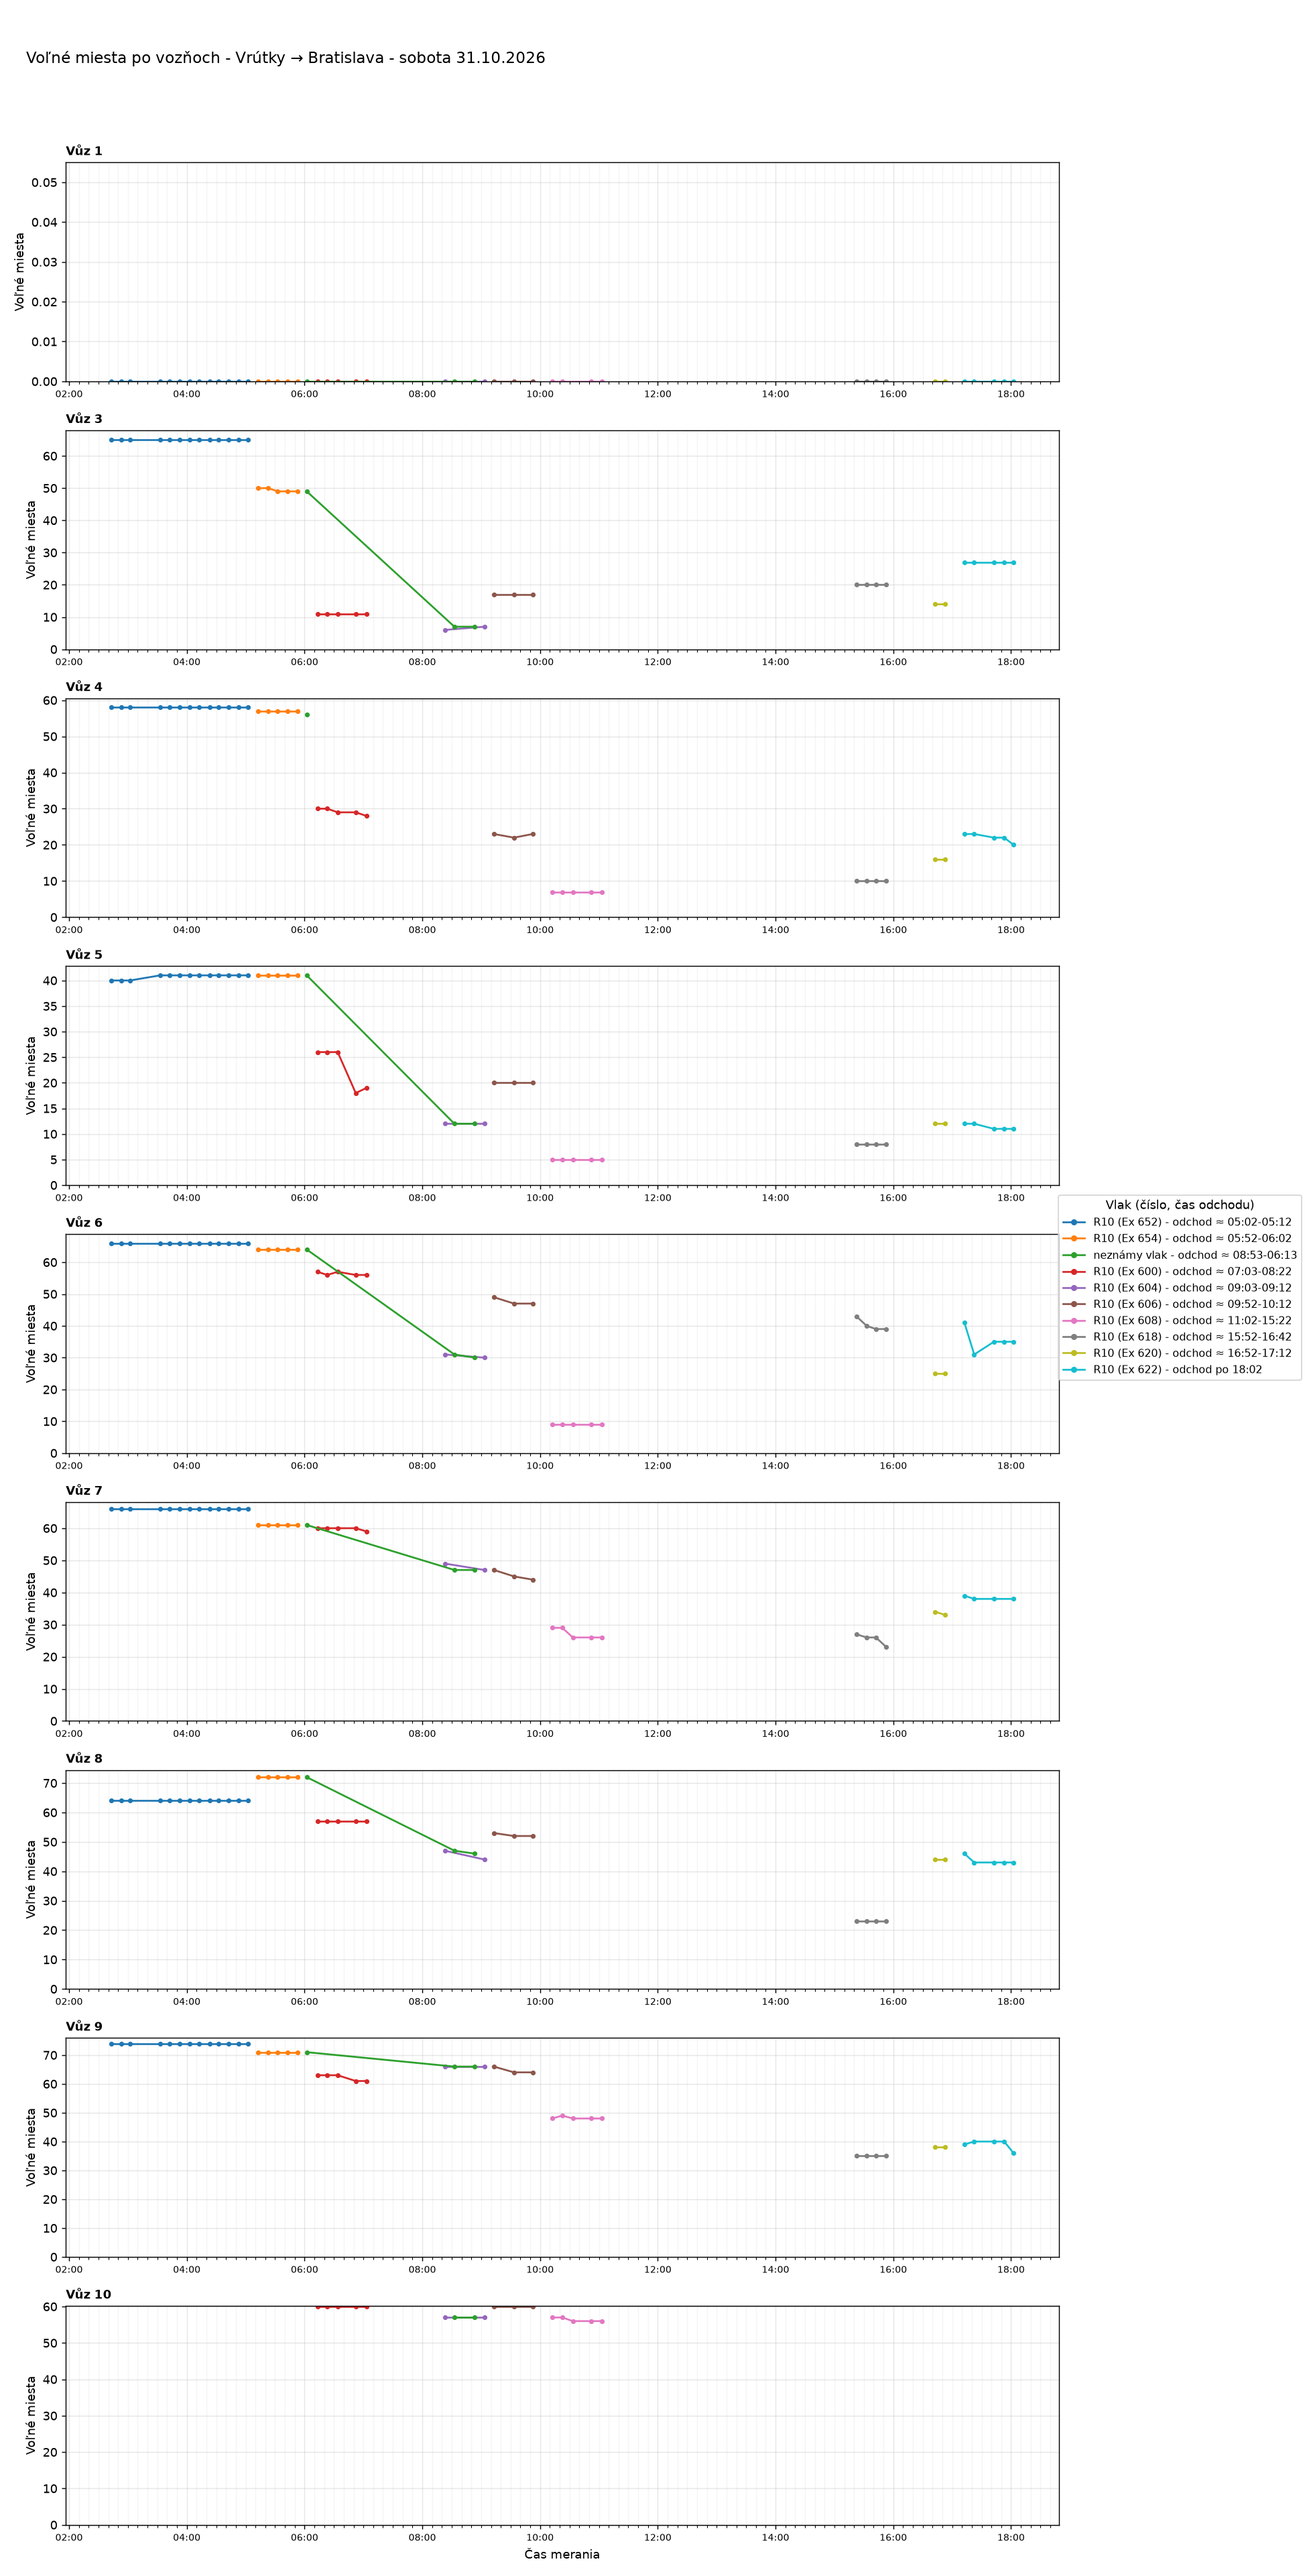
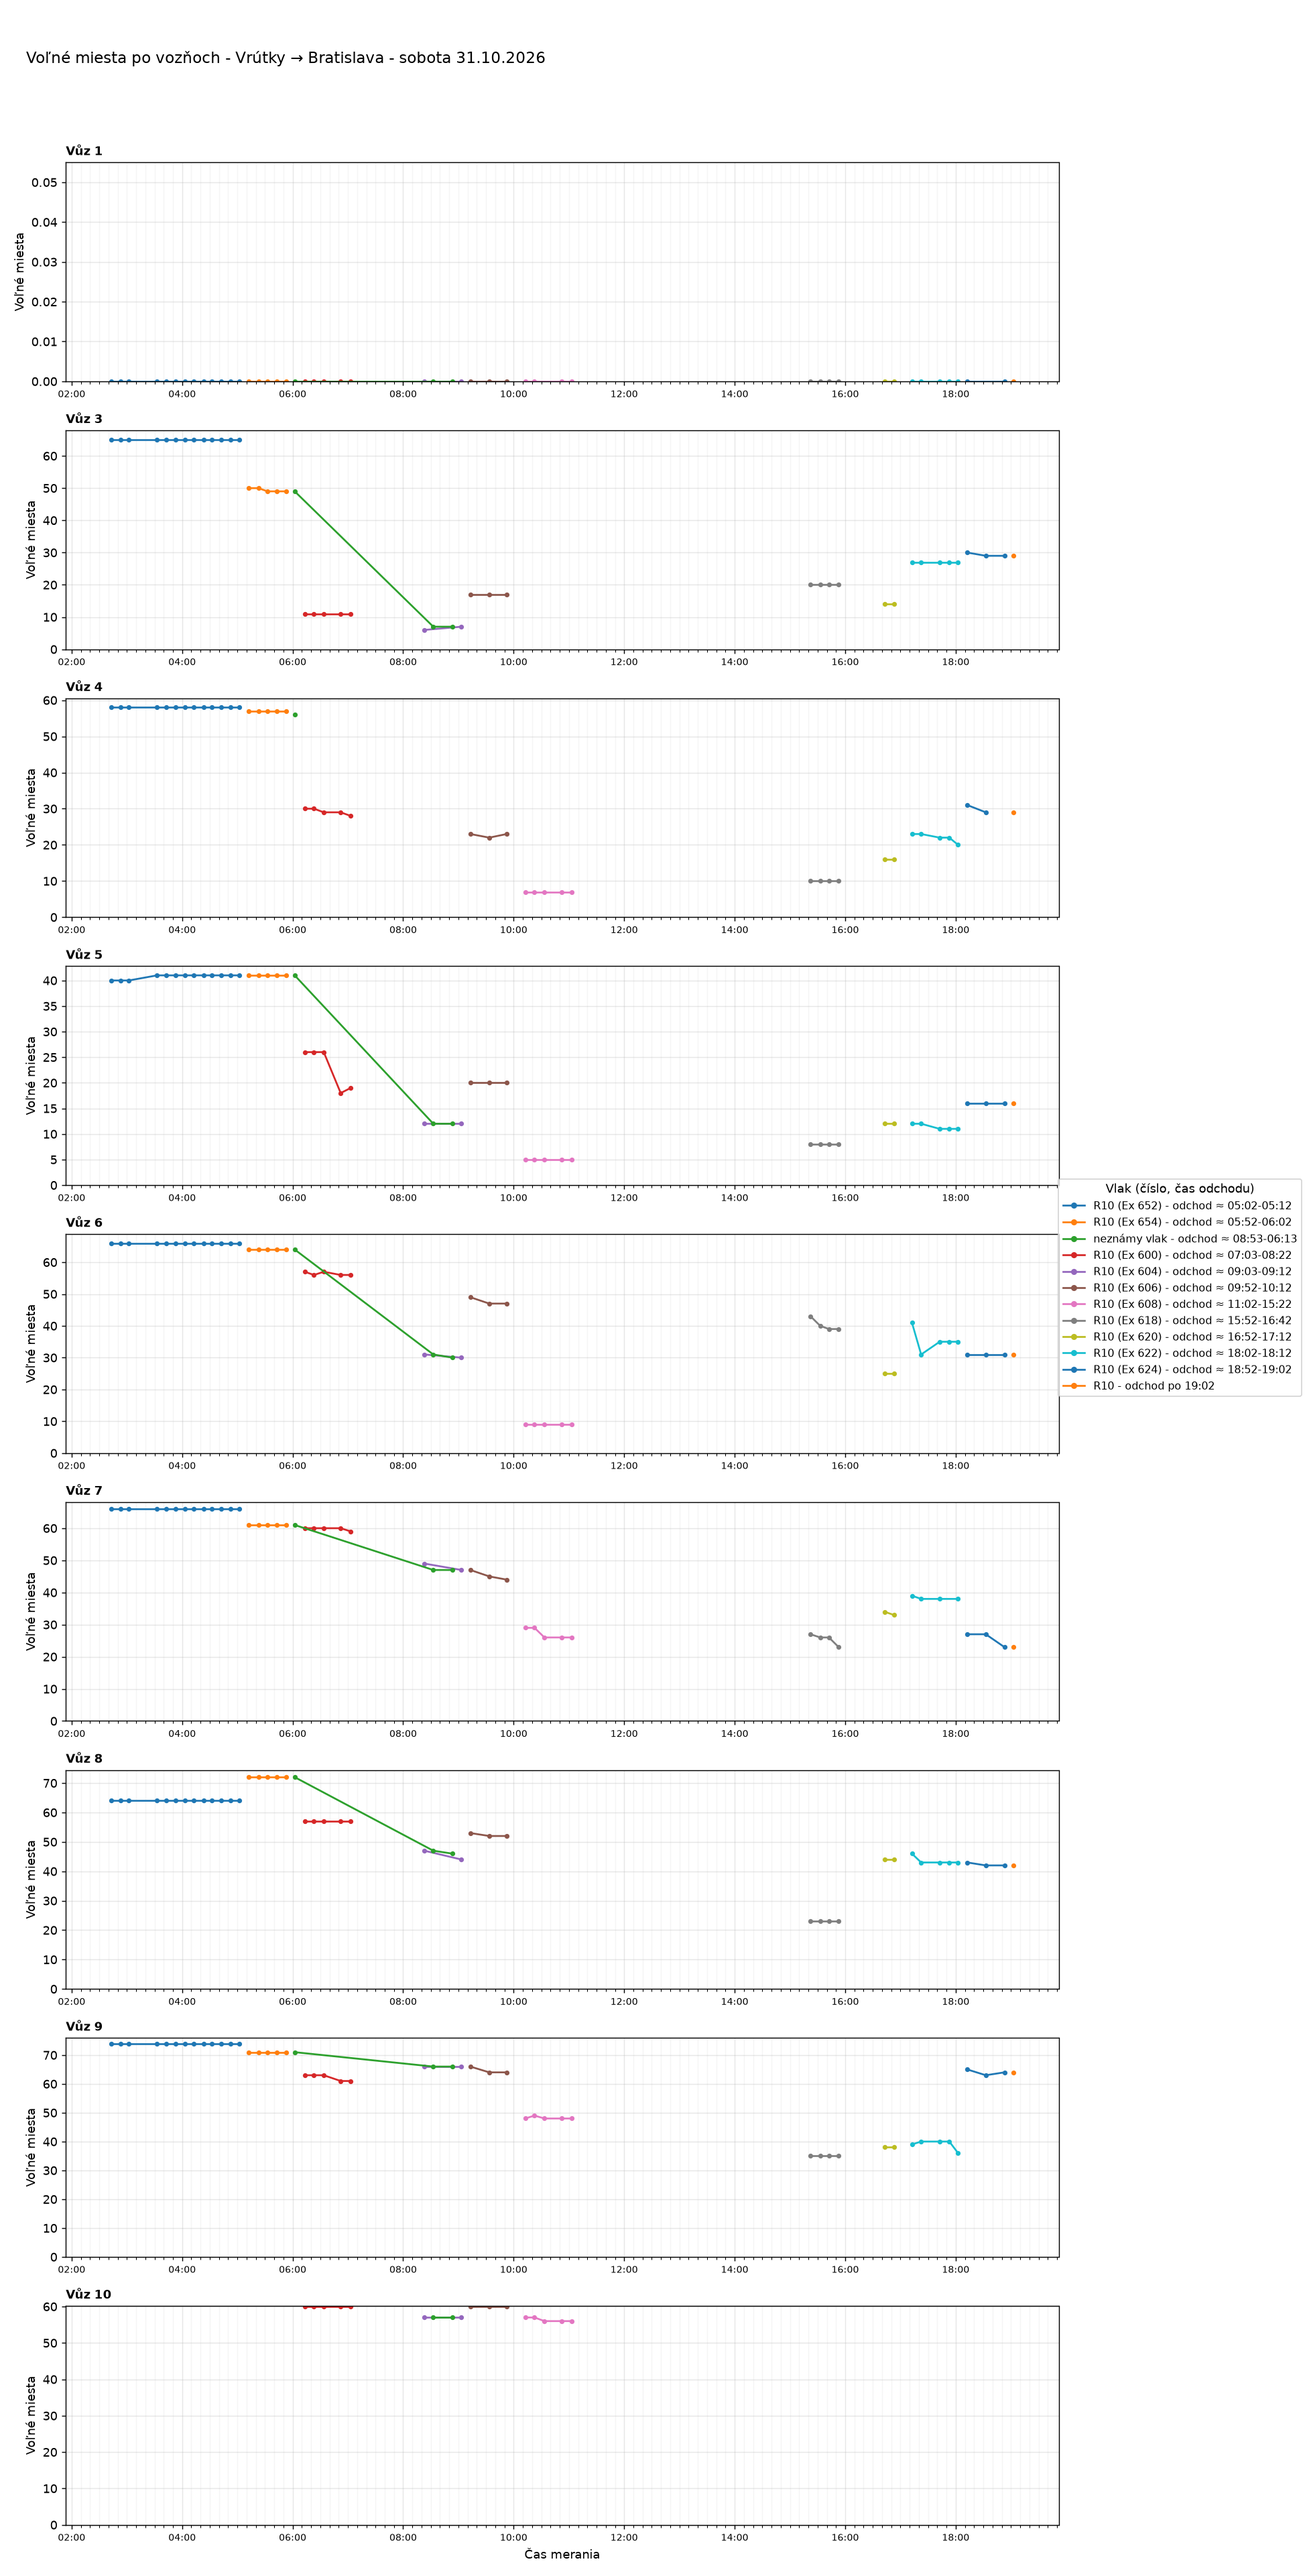
Aktualizácia grafov 2026-10-31 19:09

Changed region(s): [[0.8308, 0.4372, 0.9846, 0.5308], [0.2462, 0.7806, 0.2769, 0.8119], [0.2462, 0.4059, 0.2769, 0.4372]]

diff --git a/index.html b/index.html
@@ -37,7 +37,7 @@ details.trasa>summary{cursor:pointer;font-weight:600;font-size:1.1rem;padding:8p
 <body>
 <main>
 <h1>Voľné miesta vo vlakoch</h1>
-<p class="muted">Posledné meranie: 31.10.2026 18:03 ·
+<p class="muted">Posledné meranie: 31.10.2026 19:02 ·
 <a href="data/obsadenost_data.csv">stiahnuť dáta (CSV)</a></p>
 <nav class="nav"><a href="#suhrn">Súhrn</a><a href="#statistiky">Štatistiky</a><a href="#historia">História grafov</a></nav>
 
@@ -46,9 +46,9 @@ details.trasa>summary{cursor:pointer;font-weight:600;font-size:1.1rem;padding:8p
 <div class="tablewrap"><table>
 <thead><tr><th>Deň</th><th>Trasa</th><th>Meraní</th><th>Vlakov</th><th>Čas meraní</th></tr></thead>
 <tbody>
-<tr><td><a href="#dBA-VR-2026-10-31">sobota 31.10.2026</a></td><td>Bratislava → Vrútky</td><td>52</td><td>11</td><td>00:21-18:01</td></tr>
-<tr><td><a href="#dVR-BA-2026-10-31">sobota 31.10.2026</a></td><td>Vrútky → Bratislava</td><td>47</td><td>10</td><td>02:42-18:02</td></tr>
-<tr><td><a href="#dBA-KE-2026-10-31">sobota 31.10.2026</a></td><td>Bratislava → Košice</td><td>53</td><td>11</td><td>00:23-18:03</td></tr>
+<tr><td><a href="#dBA-VR-2026-10-31">sobota 31.10.2026</a></td><td>Bratislava → Vrútky</td><td>55</td><td>12</td><td>00:21-19:01</td></tr>
+<tr><td><a href="#dVR-BA-2026-10-31">sobota 31.10.2026</a></td><td>Vrútky → Bratislava</td><td>51</td><td>12</td><td>02:42-19:02</td></tr>
+<tr><td><a href="#dBA-KE-2026-10-31">sobota 31.10.2026</a></td><td>Bratislava → Košice</td><td>54</td><td>11</td><td>00:23-18:13</td></tr>
 <tr><td><a href="#dKE-BA-2026-10-31">sobota 31.10.2026</a></td><td>Košice → Bratislava</td><td>39</td><td>11</td><td>00:34-18:03</td></tr>
 <tr><td><a href="#dBA-VR-2026-10-30">piatok 30.10.2026</a></td><td>Bratislava → Vrútky</td><td>68</td><td>16</td><td>00:31-23:31</td></tr>
 <tr><td><a href="#dVR-BA-2026-10-30">piatok 30.10.2026</a></td><td>Vrútky → Bratislava</td><td>56</td><td>14</td><td>02:52-21:02</td></tr>
